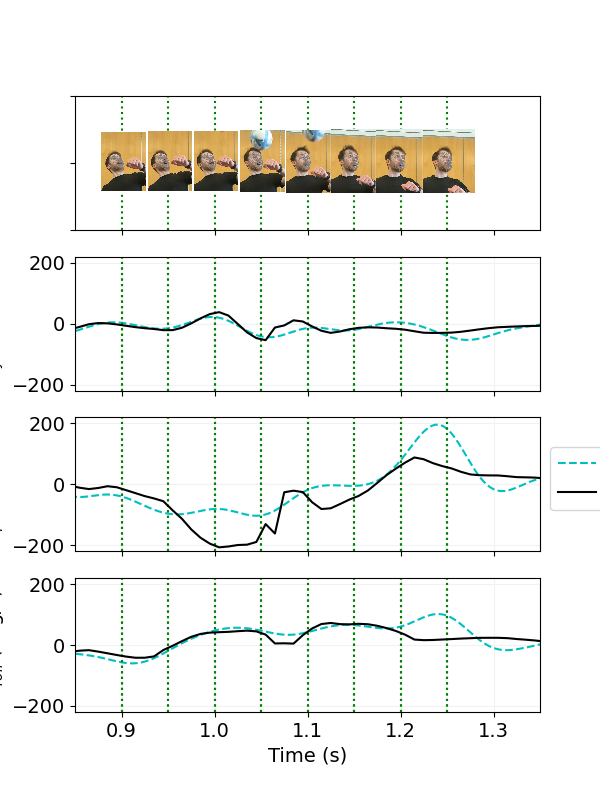
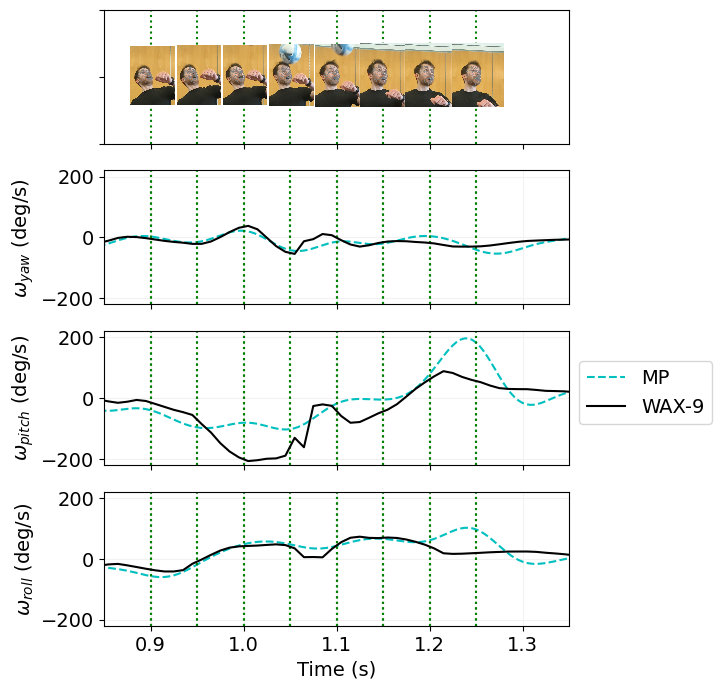
updating comparison.png

Changed region(s): [[0.0, 0.0305, 1.0, 1.0], [0.39, 0.4877, 0.48, 0.5486]]

diff --git a/EdiHeadyTrack/plot.py b/EdiHeadyTrack/plot.py
@@ -6,7 +6,7 @@
 #    By: taston <thomas.aston@ed.ac.uk>             +#+  +:+       +#+         #
 #                                                 +#+#+#+#+#+   +#+            #
 #    Created: 2023/04/27 10:18:49 by taston            #+#    #+#              #
-#    Updated: 2023/05/12 14:59:36 by taston           ###   ########.fr        #
+#    Updated: 2023/05/12 15:02:08 by taston           ###   ########.fr        #
 #                                                                              #
 # **************************************************************************** #
 
@@ -218,5 +218,5 @@ class Plot:
 
                     ax1.add_artist(ab)
         
-        plt.savefig('comparison.png')
+        plt.savefig('EdiHeadyTrack/resources/comparison.png', bbox_inches='tight')
         plt.show()
